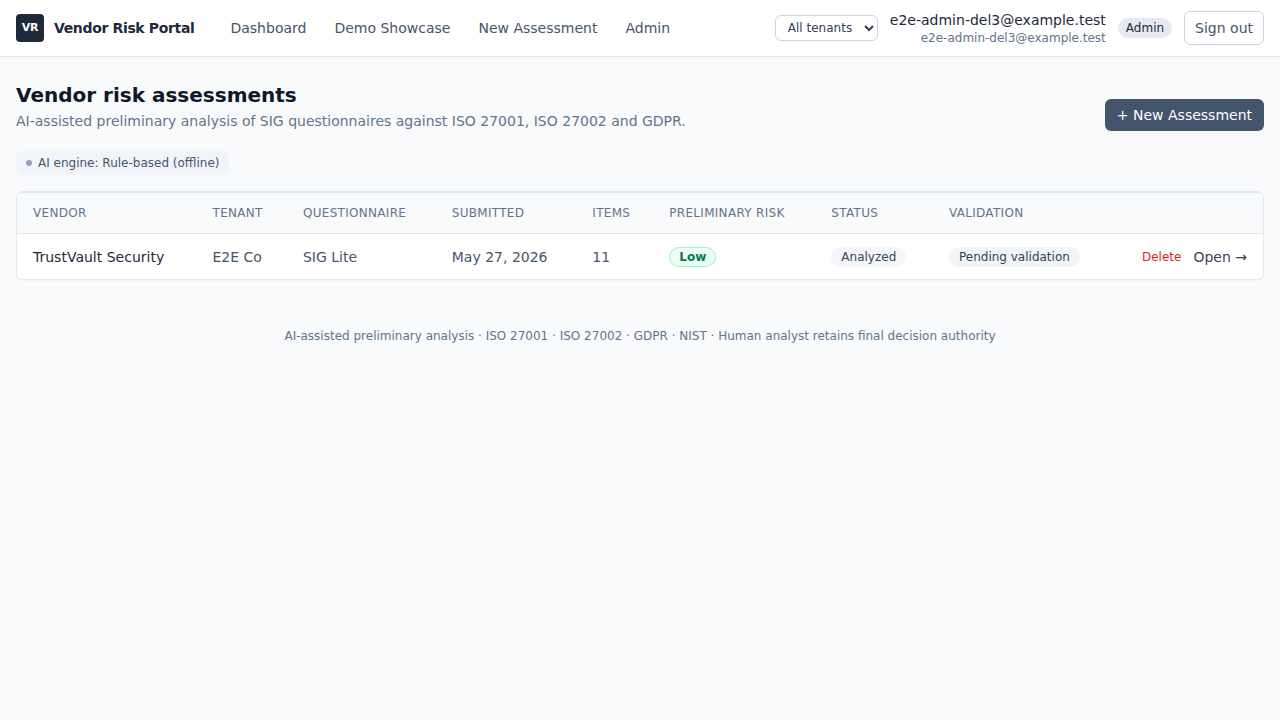
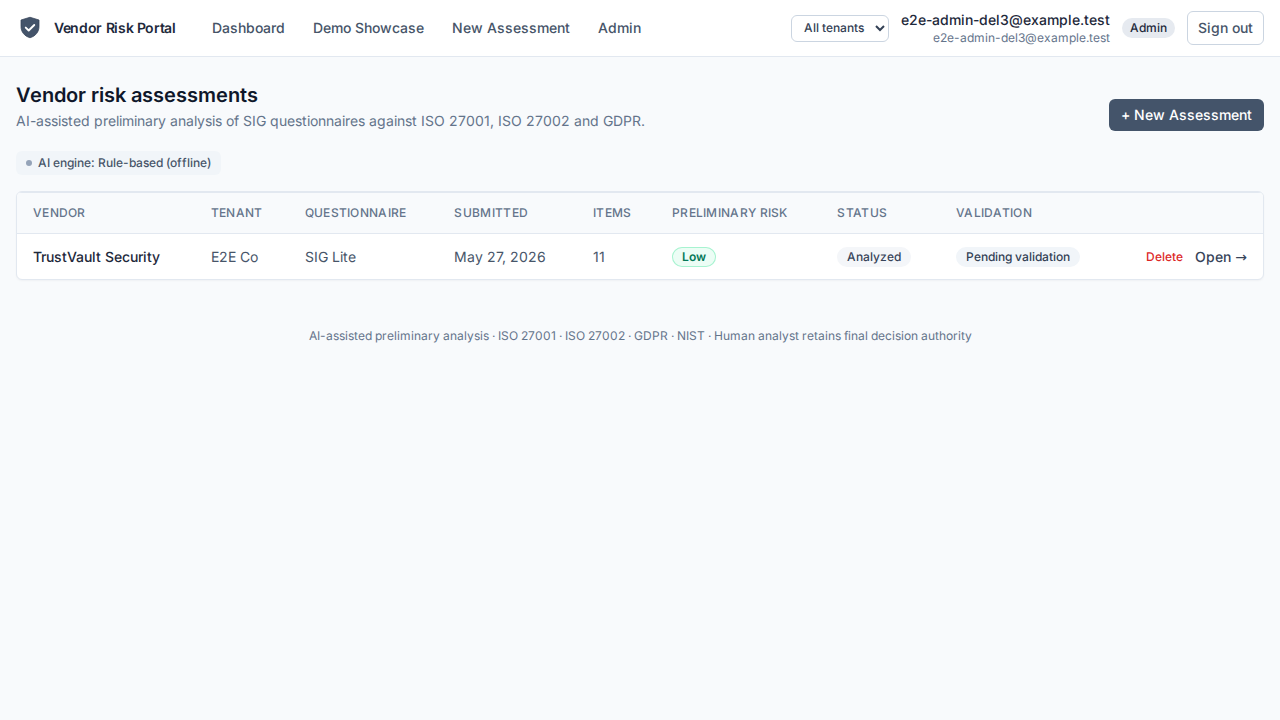
patch: #49 - Expand HIPAA mappings across relevant control domains (#55)
Merged by ADW zero-touch ship after green checks + Copilot clean.

diff --git a/specs/adw/patch-adw-eaf33e16-expand-hipaa-framework-mappings-plan.md b/specs/adw/patch-adw-eaf33e16-expand-hipaa-framework-mappings-plan.md
@@ -1,0 +1,73 @@
+# Spec — Patch: Expand HIPAA mappings across all applicable control domains
+
+- **Status:** Draft
+- **Branch:** patch-issue-49-adw-eaf33e16-expand-hipaa-framework-mappings
+- **Location:** `server/src/data/frameworks.json`
+- **Related docs:** N/A
+
+## Problem / Objective
+**Original Spec:** N/A  
+**Issue:** `frameworks.json` includes HIPAA references for only 3 of 18 control domains (Logging & Monitoring, Incident Response, HIPAA Safeguards). The remaining 15 domains — IAM, MFA, PAM, Encryption at Rest, Encryption in Transit, Vulnerability Management, Patch Management, Backup & Recovery, Business Continuity, Disaster Recovery, Data Privacy Governance, Data Subject Rights, Data Retention & Deletion, Third-Party Risk Management, and GDPR Processor Obligations — have no HIPAA mapping, making the framework coverage incomplete for HIPAA-regulated customers.  
+**Solution:** Add HIPAA Security Rule (45 CFR Part 164 Subpart C) and Privacy Rule (Subpart E) citations to every domain where HIPAA safeguards apply, and bump `_version` from `2026-05-fwmap-v2` to `2026-05-fwmap-v3`.
+
+## Approach & Changes
+### Files to Modify
+- `server/src/data/frameworks.json` — add `"HIPAA"` entries to 15 domains and bump `_version`
+
+### Implementation Steps
+IMPORTANT: Execute every step in order, top to bottom.
+
+### Step 1: Add HIPAA citations to each domain missing them
+
+Edit `server/src/data/frameworks.json` and insert a `"HIPAA"` key into each of the following domains with the citations listed below. Insert the `"HIPAA"` key after `"GDPR"` (or after whatever key precedes `"NIST 800-53"`) to keep the ordering consistent with existing domains.
+
+| Domain | HIPAA citations |
+|--------|----------------|
+| **MFA** | `"164.312(d) Person or entity authentication"` |
+| **Identity & Access Management** | `"164.312(a)(1) Access control"`, `"164.312(a)(2)(i) Unique user identification"` |
+| **Privileged Access Management** | `"164.308(a)(3) Workforce security"`, `"164.308(a)(4) Information access management"`, `"164.312(a)(1) Access control"` |
+| **Encryption at Rest** | `"164.312(a)(2)(iv) Encryption and decryption (addressable)"` |
+| **Encryption in Transit** | `"164.312(e)(2)(ii) Encryption (addressable)"` |
+| **Vulnerability Management** | `"164.308(a)(8) Evaluation"` |
+| **Patch Management** | `"164.308(a)(8) Evaluation"` |
+| **Backup & Recovery** | `"164.308(a)(7) Contingency plan"`, `"164.312(a)(2)(ii) Emergency access procedure"` |
+| **Business Continuity** | `"164.308(a)(7) Contingency plan"`, `"164.308(a)(7)(ii)(B) Disaster recovery plan"` |
+| **Disaster Recovery** | `"164.308(a)(7)(ii)(B) Disaster recovery plan"`, `"164.308(a)(7)(ii)(C) Emergency mode operation plan"` |
+| **Data Privacy Governance** | `"164.530 Administrative requirements"`, `"164.514(b) De-identification safe harbor"` |
+| **Data Subject Rights** | `"164.524 Individual right of access to PHI"`, `"164.528 Accounting of disclosures"` |
+| **Data Retention & Deletion** | `"164.530(j) Documentation and record retention"`, `"164.316(b)(2) Time limit (6 years)"` |
+| **Third-Party Risk Management** | `"164.308(b)(1) Business associate contracts"`, `"164.314(a) Business associate contracts and other arrangements"` |
+| **GDPR Processor Obligations** | `"164.308(b)(1) Business associate contracts"`, `"164.314(a) Business associate contracts and other arrangements"` |
+
+### Step 2: Bump the `_version` field
+
+Change line 2:
+```json
+"_version": "2026-05-fwmap-v2",
+```
+to:
+```json
+"_version": "2026-05-fwmap-v3",
+```
+
+## Key Decisions & Rationale
+**Lines of code to change:** ~35 (one `"HIPAA"` array per domain, plus version bump)  
+**Risk level:** low — pure data change; no business logic altered; existing HIPAA domains (Logging, Incident, HIPAA Safeguards) are untouched  
+**Testing required:** existing server unit tests (frameworks data is validated by the server test suite); TypeScript typecheck; client build  
+
+Citations follow the 45 CFR Part 164 section structure exactly as used in the existing three domains so the format is consistent. Addressable implementation specifications are noted inline (per HIPAA terminology). Domains such as `Uncategorized` are intentionally excluded — that catch-all has no specific HIPAA binding.
+
+## Verification
+Execute every command from the repo root to validate the patch is complete with zero regressions.
+
+```bash
+npm run typecheck   # server + client TS checks
+npm run test        # server + client unit tests
+npm run build       # client production build
+```
+
+Also manually verify: after the change, every domain listed in Step 1 has a non-empty `"HIPAA"` array in `server/src/data/frameworks.json`, and `_version` reads `"2026-05-fwmap-v3"`.
+
+## Known Limitations / Follow-ups
+- `Uncategorized` domain intentionally left without a HIPAA mapping — it is a fallback bucket with no specific regulatory binding.
+- The HIPAA citations use the "addressable" qualifier where the Security Rule itself marks an implementation specification as addressable (encryption entries). No change in how the portal surfaces these strings — that rendering is out of scope.

diff --git a/app_docs/feature-eaf33e16-expand-hipaa-framework-mappings.md b/app_docs/feature-eaf33e16-expand-hipaa-framework-mappings.md
@@ -1,0 +1,67 @@
+# Expand HIPAA Framework Mappings
+
+**ADW ID:** eaf33e16
+**Date:** 2026-05-27
+**Plan-Spec:** specs/adw/patch-adw-eaf33e16-expand-hipaa-framework-mappings-plan.md
+
+## Overview
+
+HIPAA Security Rule and Privacy Rule citations (45 CFR Part 164) were previously mapped to only 3 of 18 control domains. This patch adds HIPAA references to the remaining 15 applicable domains, giving HIPAA-regulated customers complete framework coverage when reviewing vendor assessments.
+
+## What Was Built
+
+- HIPAA citations added to 15 control domains that previously had no HIPAA mapping
+- `_version` bumped from `2026-05-fwmap-v2` to `2026-05-fwmap-v3`
+
+## Technical Implementation
+
+### Files Modified
+
+- `server/src/data/frameworks.json`: Added `"HIPAA"` key with 45 CFR Part 164 citations to 15 domains; bumped `_version`
+
+### Key Changes
+
+- **MFA** — `164.312(d)` Person or entity authentication
+- **Identity & Access Management** — `164.312(a)(1)` Access control, `164.312(a)(2)(i)` Unique user identification
+- **Privileged Access Management** — `164.308(a)(3)` Workforce security, `164.308(a)(4)` Information access management, `164.312(a)(1)` Access control
+- **Encryption at Rest** — `164.312(a)(2)(iv)` Encryption and decryption (addressable)
+- **Encryption in Transit** — `164.312(e)(2)(ii)` Encryption (addressable)
+- **Vulnerability Management** — `164.308(a)(8)` Evaluation
+- **Patch Management** — `164.308(a)(8)` Evaluation
+- **Backup & Recovery** — `164.308(a)(7)` Contingency plan, `164.312(a)(2)(ii)` Emergency access procedure
+- **Business Continuity** — `164.308(a)(7)` Contingency plan, `164.308(a)(7)(ii)(B)` Disaster recovery plan
+- **Disaster Recovery** — `164.308(a)(7)(ii)(B)` Disaster recovery plan, `164.308(a)(7)(ii)(C)` Emergency mode operation plan
+- **Data Privacy Governance** — `164.530` Administrative requirements, `164.514(b)` De-identification safe harbor
+- **Data Subject Rights** — `164.524` Individual right of access to PHI, `164.528` Accounting of disclosures
+- **Data Retention & Deletion** — `164.530(j)` Documentation and record retention, `164.316(b)(2)` Time limit (6 years)
+- **Third-Party Risk Management** — `164.308(b)(1)` Business associate contracts, `164.314(a)` Business associate contracts and other arrangements
+- **GDPR Processor Obligations** — `164.308(b)(1)` Business associate contracts, `164.314(a)` Business associate contracts and other arrangements
+
+## How to Use
+
+The HIPAA citations are surfaced automatically in the portal's framework mapping view whenever a vendor assessment maps to one of the expanded domains. No user action is required.
+
+1. Open any vendor assessment in the portal.
+2. Navigate to the framework mapping or control domain view.
+3. For any domain listed above, the HIPAA column now shows the applicable 45 CFR Part 164 citations alongside ISO 27001, GDPR, NIST 800-53, and NIST CSF references.
+
+## Configuration
+
+No configuration changes required. The data file (`server/src/data/frameworks.json`) is loaded at server startup.
+
+## Testing
+
+```bash
+npm run typecheck   # server + client TypeScript checks
+npm run test        # server + client unit tests
+npm run build       # client production build
+```
+
+Manual verification: confirm every domain listed above has a non-empty `"HIPAA"` array in `server/src/data/frameworks.json`, and that `_version` reads `"2026-05-fwmap-v3"`.
+
+## Notes
+
+- The `Uncategorized` domain is intentionally excluded — it is a catch-all fallback bucket with no specific HIPAA regulatory binding.
+- Addressable implementation specifications (encryption entries) are noted inline per HIPAA terminology, consistent with the three pre-existing HIPAA domains (Logging & Monitoring, Incident Response, HIPAA Safeguards).
+- This is a pure data change; no business logic was altered.
+- AI-generated framework citations are preliminary reference material. The final vendor-risk decision is always made by a human analyst.